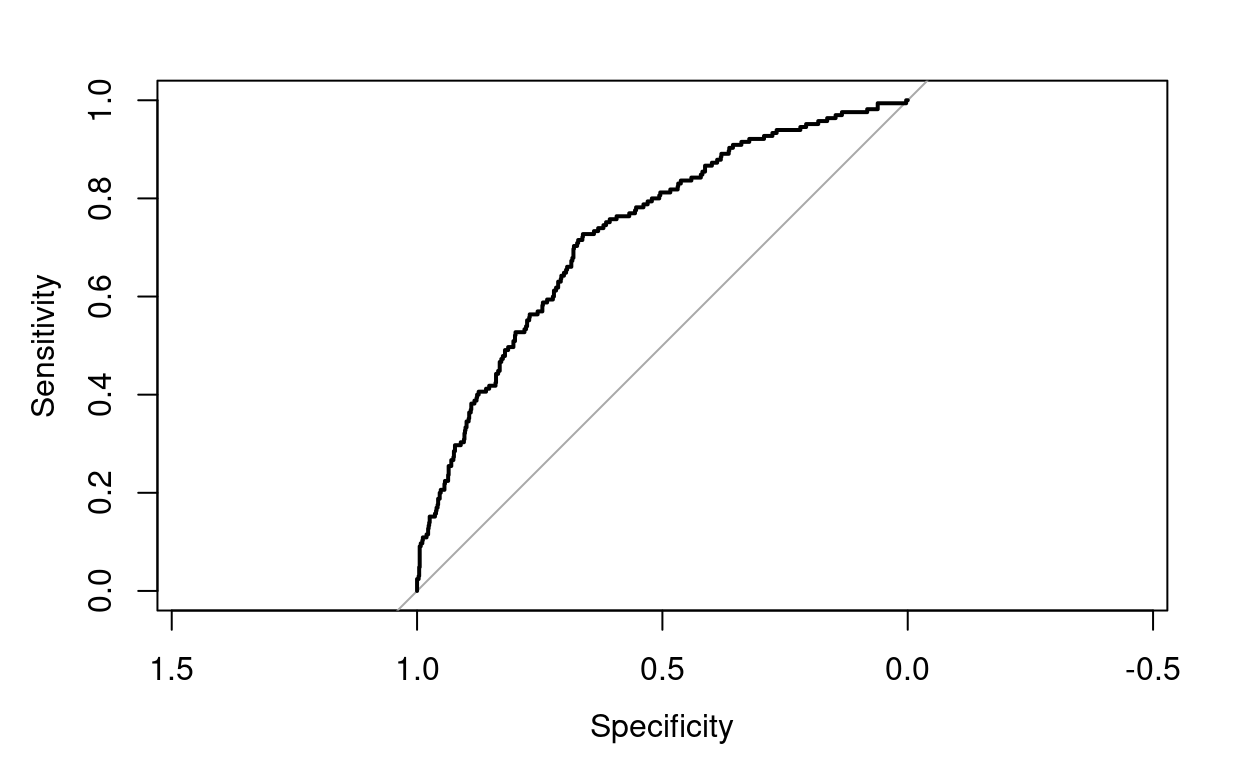
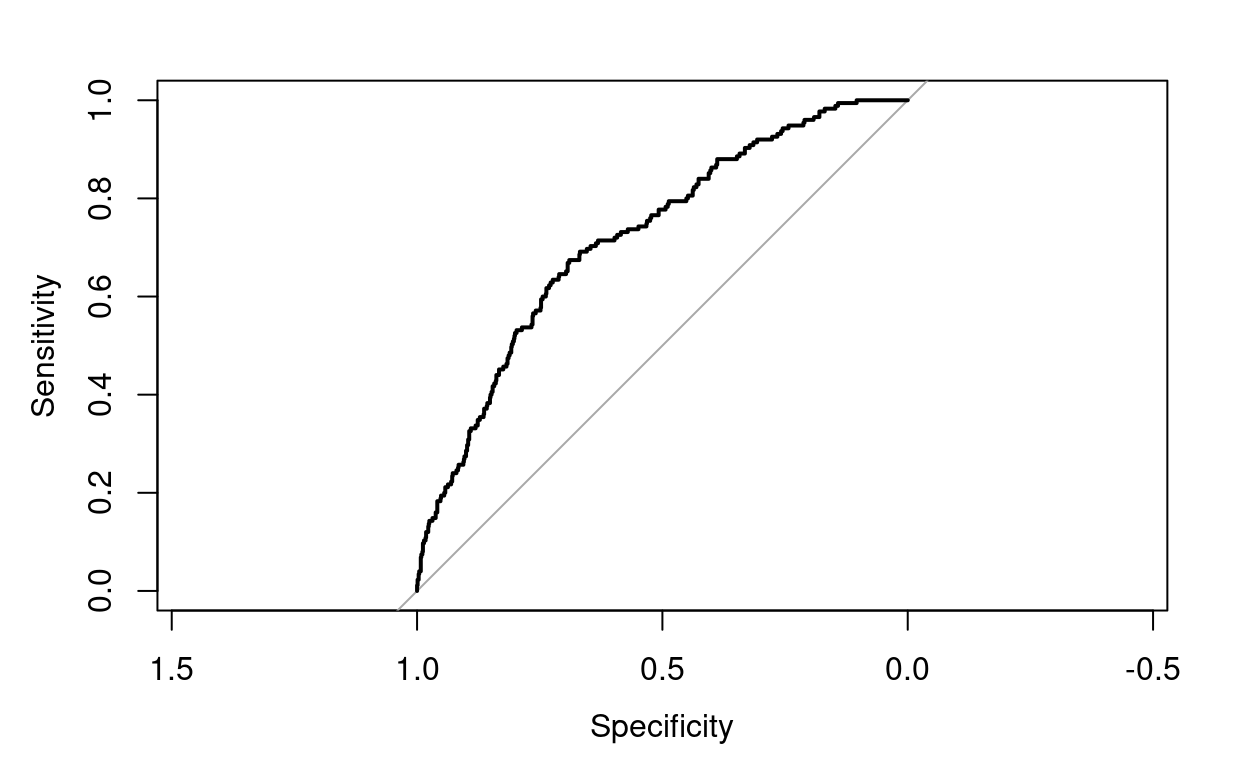
latest changes

diff --git a/_site/sta631.html b/_site/sta631.html
@@ -2259,29 +2259,29 @@ Predict variable (desired target): • 10 year risk of coronary heart disease CH
 </div>
 <div class="layout-chunk" data-layout="l-body">
 <pre><code>                Estimate Std. Error z value Pr(&gt;|z|)
-(Intercept)        -8.89       0.86  -10.31     0.00
-male1               0.50       0.13    3.85     0.00
-age                 0.06       0.01    8.14     0.00
-education          -0.01       0.06   -0.14     0.89
-currentSmoker1      0.17       0.19    0.89     0.37
-cigsPerDay          0.01       0.01    1.84     0.07
-BPMeds              0.12       0.27    0.44     0.66
-prevalentStroke     0.74       0.60    1.24     0.22
-prevalentHyp1       0.21       0.17    1.23     0.22
-diabetes1           0.21       0.36    0.58     0.56
-totChol             0.00       0.00    1.81     0.07
-sysBP               0.02       0.00    3.55     0.00
-diaBP               0.00       0.01   -0.30     0.76
-BMI                 0.00       0.02    0.31     0.76
-heartRate           0.00       0.00    0.02     0.98
-glucose             0.01       0.00    2.35     0.02</code></pre>
+(Intercept)        -8.33       0.88   -9.47     0.00
+male1               0.60       0.13    4.58     0.00
+age                 0.06       0.01    7.76     0.00
+education          -0.07       0.06   -1.20     0.23
+currentSmoker1      0.25       0.19    1.31     0.19
+cigsPerDay          0.01       0.01    1.78     0.07
+BPMeds              0.15       0.28    0.54     0.59
+prevalentStroke     1.27       0.61    2.09     0.04
+prevalentHyp1       0.21       0.17    1.28     0.20
+diabetes1           0.01       0.38    0.02     0.98
+totChol             0.00       0.00    2.55     0.01
+sysBP               0.02       0.00    3.76     0.00
+diaBP               0.00       0.01   -0.60     0.55
+BMI                 0.01       0.02    0.74     0.46
+heartRate          -0.01       0.01   -2.31     0.02
+glucose             0.01       0.00    2.93     0.00</code></pre>
 </div>
 <p><strong>From the model above, the variables that significantly effect the probability of a patient having CHD are: Sex, Age, Cigs per day, systolic blood pressure, and glucose levels.</strong></p>
 <div class="layout-chunk" data-layout="l-body">
 <pre><code>         TenYearCHD
 log.preds    0    1
-   CHD      19   34
-   No CHD 2149  357</code></pre>
+   CHD      15   38
+   No CHD 2163  343</code></pre>
 </div>
 <div class="layout-chunk" data-layout="l-body">
 <pre><code>Training Error Rate: 14.54 %</code></pre>
@@ -2289,12 +2289,12 @@ log.preds    0    1
 <p>Next we remove the insignificant variables and retain the model</p>
 <div class="layout-chunk" data-layout="l-body">
 <pre><code>            Estimate Std. Error z value Pr(&gt;|z|)
-(Intercept)    -8.80       0.50  -17.55        0
-male1           0.46       0.13    3.69        0
-age             0.07       0.01    8.83        0
+(Intercept)    -8.90       0.51  -17.49        0
+male1           0.59       0.13    4.58        0
+age             0.07       0.01    8.88        0
 cigsPerDay      0.02       0.01    3.76        0
-sysBP           0.02       0.00    7.54        0
-glucose         0.01       0.00    3.61        0</code></pre>
+sysBP           0.02       0.00    7.20        0
+glucose         0.01       0.00    3.83        0</code></pre>
 </div>
 <h3 id="observations-1">Observations</h3>
 <div class="layout-chunk" data-layout="l-body">
@@ -2315,8 +2315,8 @@ glucose         0.01       0.00    3.61        0</code></pre>
 <div class="layout-chunk" data-layout="l-body">
 <pre><code>         TenYearCHD
 log.preds    0    1
-   CHD      21   33
-   No CHD 2147  358</code></pre>
+   CHD      18   34
+   No CHD 2160  347</code></pre>
 </div>
 <div class="layout-chunk" data-layout="l-body">
 <pre><code>Training Error Rate: 14.81 %</code></pre>
@@ -2328,8 +2328,8 @@ log.preds    0    1
 Call:
 roc.default(response = framingham_train$TenYearCHD, predictor = log.fit$fitted.values,     plot = TRUE)
 
-Data: log.fit$fitted.values in 2169 controls (framingham_train$TenYearCHD 0) &lt; 392 cases (framingham_train$TenYearCHD 1).
-Area under the curve: 0.7377</code></pre>
+Data: log.fit$fitted.values in 2179 controls (framingham_train$TenYearCHD 0) &lt; 382 cases (framingham_train$TenYearCHD 1).
+Area under the curve: 0.7415</code></pre>
 </div>
 <h3 id="testing-the-model">Testing the model</h3>
 <div class="layout-chunk" data-layout="l-body">
@@ -2338,8 +2338,8 @@ Area under the curve: 0.7377</code></pre>
 Call:
 roc.default(response = framingham_test$TenYearCHD, predictor = log.fit$fitted.values,     plot = TRUE)
 
-Data: log.fit$fitted.values in 932 controls (framingham_test$TenYearCHD 0) &lt; 165 cases (framingham_test$TenYearCHD 1).
-Area under the curve: 0.7332</code></pre>
+Data: log.fit$fitted.values in 922 controls (framingham_test$TenYearCHD 0) &lt; 175 cases (framingham_test$TenYearCHD 1).
+Area under the curve: 0.7222</code></pre>
 </div>
 <h3 id="logistic-regression-equation">Logistic regression equation</h3>
 <p>P=eβ0+β1X1/1+eβ0+β1X1P=eβ0+β1X1/1+eβ0+β1X1
